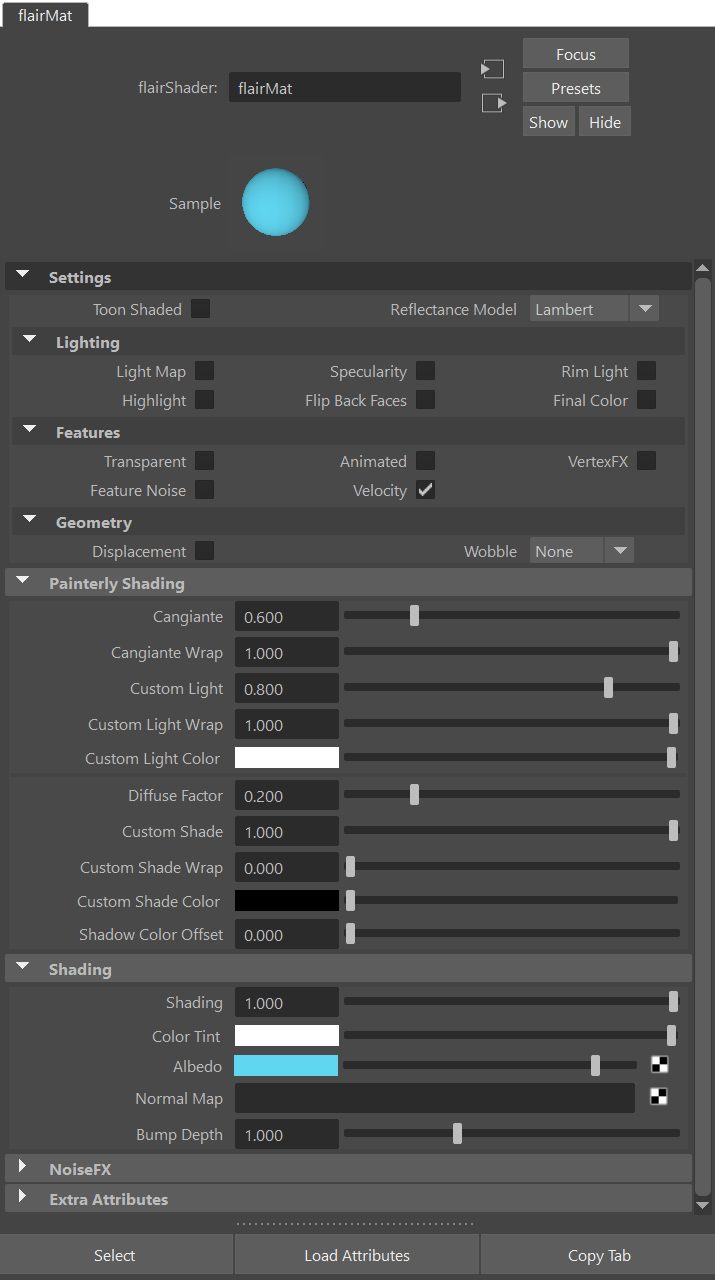
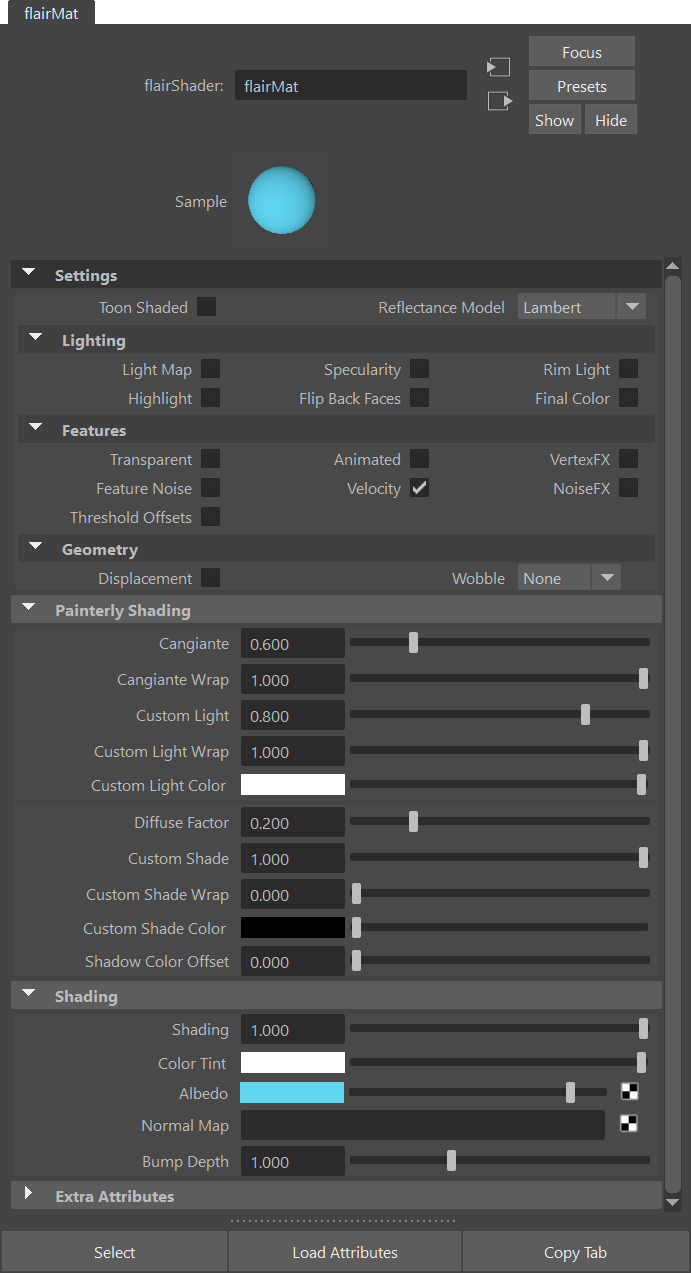
Adding wobble blur and threshold documentation to materials

diff --git a/flair/materials/flair-shader.md b/flair/materials/flair-shader.md
@@ -597,6 +597,34 @@ Velocity is enabled by default, but it can be deactivated per material if motion
 {: .info}
 
 ---
+#### NoiseFX
+The _NoiseFX_ setting toggles the use of NoiseFX in the material and enables the NoiseFX section within the bottom of the Attribute Editor. This attribute is generally toggled automatically when the [NoiseFX](/flair/art-direction/noisefx/) tool is used and allows you to key and animate NoiseFX attributes when needed.
+
+<figure class="aio-ui">
+	<img src="/media/flair-shader/noisefx.png" alt="Stylization (procedural) attributes">
+	<figcaption>The beginning of the NoiseFX attributes</figcaption>
+</figure>
+
+---
+
+#### Threshold Offsets
+The _Threshold Offsets_ setting toggles the available threshold offsets per material and the respective section within the Attribute Editor. The effects of these attributes will only be visible on effects and styles that work with thresholds i.e., lines (toon and sketch).
+
+<figure class="aio-ui">
+	<img src="/media/flair-shader/threshold-offsets.png" alt="Stylization (procedural) attributes">
+	<figcaption>The beginning of the NoiseFX attributes</figcaption>
+</figure>
+
+##### Depth Threshold Offset
+_Depth Threshold Offset_ modifies the global depth threshold for this material
+
+#### Flow Threshold Offset
+_Flow Threshold Offset_ modifies the global flow (normals) threshold for this material
+
+#### Color Threshold Offset
+_Color Threshold Offset_ modifies the global color threshold for this material
+
+---
 
 ### Geometry
 This group contains all attributes changing the geometry of the material.
@@ -652,7 +680,7 @@ Different types of wobble noise can be specified for different results
 
 * **None** - No wobble is applied
 * **Simple** - Default simplex wobble noise
-* **Cloud** - More detailed fractalized wobble noise resembling the "cloud" noise in Photoshop (appreciated better with higher polygon count).
+* **Cloud** - More detailed fractalized wobble noise resembling the "cloud" noise in Photoshop (better appreciated higher polygon count).
 * **Custom** - Custom noise, which can be written in glsl `flair/maya/shaders/material/include/noise.glsl` [`customNoise3(vec4 v)`].
 
 <figure class="aio-ui">
@@ -699,7 +727,7 @@ As wobble is generated from noise in 3D, make sure to toggle the *deformed* attr
 
 
 ##### Wobble Blur
-Defines the amount wobble blur for each TAA sample, generating a soft edge by avaraging different wobble positions.
+Defines the amount wobble blur for TAA samples, generating a soft edge by avaraging different wobble positions as layers.
 
 <figure>
     <video autoplay loop muted playsinline style="width:152px">
@@ -707,6 +735,19 @@ Defines the amount wobble blur for each TAA sample, generating a soft edge by av
     </video>
     <figcaption>Wobble Blur (0...1).</figcaption>
 </figure>
+
+##### Wobble Blur Layers
+Defines the amount of wobble blur layers i.e., the amount of wobbled positions to use during the wobble blur.
+
+<figure>
+    <video autoplay loop muted playsinline style="width:152px">
+        <source src="/media/flair-shader/wobble-layers.mp4" type="video/mp4">
+    </video>
+    <figcaption>Wobble Blur Layers (32...1).</figcaption>
+</figure>
+
+With a low layer amount, you can use Wobble Blur to achieve a layered watercolor look!
+{: .info}
 
 ##### Wobble Motion
 Defines the amount of motion offset of the wobble, generating streaks of motion under animation. For this attribute to show it's effect, make sure that velocity is enabled in the _Globals_ node and in the material.
@@ -718,17 +759,6 @@ Defines the amount of motion offset of the wobble, generating streaks of motion 
     <figcaption>Wobble motion at 0.5 and 2.5.</figcaption>
 </figure>
 
-------------------
-------------------
-
-
-## NoiseFX
-The _NoiseFX_ section (closed by default) at the bottom contains the attributes that are automatically set by the [_NoiseFX_](/art-direction/noisefx) tool. You can mostly ignore these attributes within the material, unless you want to key and animate NoiseFX values.
-
-<figure class="aio-ui">
-	<img src="/media/flair-shader/noisefx.png" alt="Stylization (procedural) attributes">
-	<figcaption>All NoiseFX attributes</figcaption>
-</figure>
 
 ------------------
 ------------------

diff --git a/flair/setup.md b/flair/setup.md
@@ -23,7 +23,7 @@ nav_order: 2
 | Requirements      | Minimum    | Recommended   | Notes                                                                                   |
 |-------------------|------------|---------------|-----------------------------------------------------------------------------------------|
 | **Autodesk Maya** | 2022.4    | 2023.3        | Maya 2022, 2023, 2024 and 2025 are supported                                                       |
-| **OS**            | Windows 10<br>RHEL 7.9 | Windows 11<br>RHEL 8 | Linux available on-demand for Studios, [contact us](https://artineering.io/contact) |
+| **OS**            | Windows 10<br>RHEL 7.9 | Windows 11<br>RHEL 8+ | Linux available on-demand for Studios, [contact us](https://artineering.io/contact) |
 | **VRAM**          | 4 GB       | 8+ GB          | Higher resolutions and scene complexity require more VRAM                               |
 | **Memory**        | 8 GB       | 16+ GB         | As much as your Maya scene requires                                                     |
 
